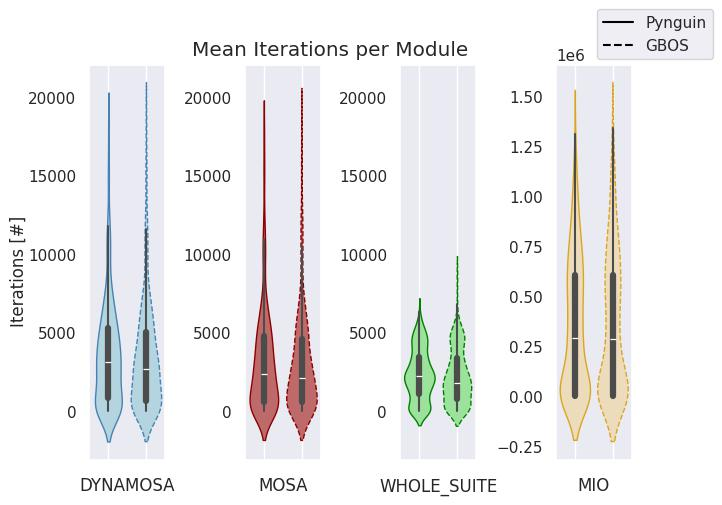
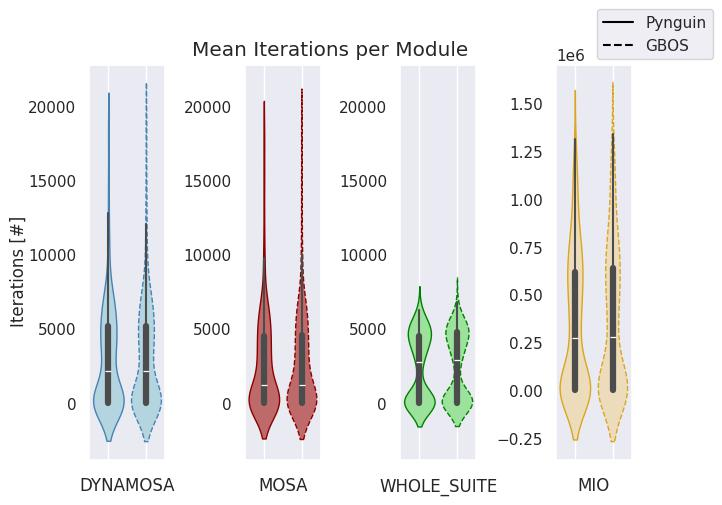
Final version?

diff --git a/pynguinGraphBasedObjectGen.tex b/pynguinGraphBasedObjectGen.tex
@@ -175,7 +175,7 @@ This drawback appears when a software is updated with dead code, or is not writt
 
 Since at least the past two decades, there has been a collective effort to shrink the necessity for handwritten software tests, with the development of tools and techniques related to evolutionary algorithms~\cite{DBLP:conf/sigsoft/FraserA11}, software static analysis~\cite{DBLP:conf/osdi/CadarDE08}, and (in a more current solution) large language models~\cite{DBLP:journals/corr/abs-2207-10397}.
 Usually, automatic test generation is portrayed as an optimization problem, that takes test cases or test suites as solutions to the task of maximizing the fitness coverage of a module under test and minimizing the amount of test cases/statements within a test suite.
-In this scenario, the greatest obstacles are finding a correct representation of a test case for the chosen programming language, and finding a suitable way of going through the domain's search space 
+In this scenario, the greatest obstacles are finding a correct representation of a test case for the chosen programming language, and finding a suitable way of going through the domain's search space .
 
 \newpage
 
@@ -646,13 +646,14 @@ For those modules that stay in the test set for this research question after a f
 For the experimental executions of Pynguin with the new GBOS extension, the data set of Python projects initially used as a benchmark for Pynguin's type tracing update, joined with a subset of Pynguin's EMSE submission test modules~\cite{DBLP:journals/corr/abs-2111-05003}, was taken as a base for the answer of both research questions.
 This initial testing set is formed by 1047 modules over 44 projects.
 
-In a first instance, are going to be filtered all modules that reach full branch coverage using the MIO algorithm without the GBOS extension, before 100 iterations or 600 seconds of execution time.
+In a first instance, are going to be filtered all modules that reach full branch coverage using the MIO algorithm without the GBOS extension, before 100 iterations or 600 seconds of execution search time.
 The filtering process left at this point 588 modules over the same 44 projects.
 For the answering of the second research question, a final filtering criteria was applied by comparing the  results of the runs to their Import Coverage, and checking the object-like ratio described in Equation~\ref{eq:olr}.
 Here, only those modules that have a final coverage that is different to their Import Coverage value or have a OLR greater than \(0.5\) are kept.
+In the run statistical data set there were some configurations of module and approach that did not reach more than 10 runs, and were also removed from the following analysis.
 
-Regarding the execution parameters of Pynguin, 8 main configurations are used to cover the 4 extended algorithms, and ether the usage or not usage of the GBOS extension itself.
-The configurations that use the WHOLE\_SUITE argument, also needed to set the parameter ``--use\_archive'' to true, as the extension uses the archive of each \classname{GenerationAlgorithm} to obtain the branch goals.
+Regarding the execution parameters of Pynguin, 8 main configurations are used to cover the 4 extended algorithms, and either the usage or not usage of the GBOS extension itself.
+The configurations that used the WHOLE\_SUITE argument, needed additionally to set the parameter ``--use\_archive'' to true, as the extension uses the archive of each \classname{GenerationAlgorithm} to obtain the branch goals.
 From the newly introduced parameters, only ``--no\_change\_iterations'' was tuned in a hand-made manner while having the first test runs as reference.
 In these (and similar to the results finally used for the analysis), the runs using the MIO algorithm reached mean algorithm iteration values close to an order of magnitude between \(10^5\) and \(10^6\), contrary to the rest of algorithms, which reached values closer to an order of magnitude of \(10^4\).
 Because of this, the mentioned parameter was left at the default value of \(1000\) for MIO, and lowered to \(300\) for the other algorithms.
@@ -705,14 +706,15 @@ The values for percentage difference between both approaches over the average va
 \end{figure}
 
 Figure~\ref{fig:times} describes through two plots the overall search time and the time needed by the extension per phase.
+For these plots, only were accounted those modules that had valid results in the 8 configurations at the same time.
 The violin plot on the left, shows the Search Time distribution of the runs, revealing that both Pynguin and the extension use the full budget of 600 seconds for any computation that is not related to the GBOS extension.
-The percentage change (e.g.~\(\frac{\text{GBOSValue} - \text{PynguinValue}}{\text{PynguinValue}}\times 100\)) for the average values of the distributions presented in this plot, are \(9.35\), \(6.92\), \(7.52\) and \(1.74\) respectively, from left to right.
+The percentage change (e.g.~\(\frac{\text{GBOSValue} - \text{PynguinValue}}{\text{PynguinValue}}\times 100\)) for the average values of the distributions presented in this plot, are \(-0.006\), \(-0.002\), \(0.005\) and \(-0.013\) respectively, from left to right.
 
 Regarding the times that are considered while doing any GBOS-related operation, the bar plot on the right shows a comparison of the average values per module, per algorithm, of the time spent in deciding if the current iteration generates a test template or not (Decision Time), time spent generating the test templates (Generation Time), and the Search Time as baseline.
 By looking at the sizes of the different sections of each algorithms' bars, it is safe to state that compared to the other options, MIO is the algorithm that is affected the most with the extra computational effort that the GBOS extension generates.
 This can be explained by the lightweight nature of the evolution steps implemented in Pynguin, which are reduced to only selecting a new test case if necessary and mutating it the maximum amount of times possible depending on the algorithm's parameters.
-Considering a comparison between the Search Time and the Decision Time, MIO obtains a percentage change of \(279.86\), while the other algorithms have values ranging between \(-87.48\) and \(-83.68\).
-With respect to the Generation Time, the comparison using percentage change of MIO gives a value of \(346.54\), while the other algorithms have values ranging between \(53.69\) and \(74.75\).
+Considering a comparison between the Search Time and the Decision Time, MIO obtains a percentage change of \(-31.773\), while the other algorithms have values ranging between \(-99.293\) and \(-98.995\).
+With respect to the Generation Time, the comparison using percentage change of MIO gives a value of \(-71.011\), while the other algorithms have values ranging between \(-99.839\) and \(-98.385\).
 
 The data reported in Table~\ref{tab:performance} shows the mean coverage of all tested modules per approach, the p-Values obtained through statistical Mann-Whitney U tests and Cohen's D effect size measures, in any pair of algorithm and runtime budget.
 Generally, all p-Values are greater than \(0.05\) with respect to the sets of obtained branch coverage values in each module, accepting the null hypothesis that assumes no effect or statistical difference between the distributions.
@@ -727,7 +729,7 @@ The presented violin plots imply that in general, both approaches to the test ge
 \end{figure}
 
 Nonetheless, it is noticeable that all values of Cohen's D effect size in Table~\ref{tab:performance} are negative, meaning that the best distributions of coverage values are found while using Pynguin without the GBOS extension.
-This strongly implies that in a general Python developing scenario the usage of the GBOS extension is not advised nor makes any considerable improvement in coverage results, as the mean effect size found in the last time step budget of the runs gets a value of \(-0.32\) over all algorithms, contrary to the value of \(0.21\) (in favour of EvoObj) obtained by Yun Lin et al.\ over all the algorithms used in their experimental phase for the maximum budget of 300 seconds. 
+This strongly implies that in a general Python developing scenario the usage of the GBOS extension is not advised nor makes any considerable improvement in coverage results, as the mean effect size found in the last time step budget of the runs gets a value of \(-0.04\) over all algorithms, contrary to the value of \(0.21\) (in favour of EvoObj) obtained by Yun Lin et al.\ over all the algorithms used in their experimental phase for the maximum budget of 300 seconds. 
 
 \begin{table}[h!]
   \centering
@@ -738,6 +740,32 @@ This strongly implies that in a general Python developing scenario the usage of 
   \input{Figures/Results/600-table.tex}
   \caption{Coverage Performance of Pynguin and GBOS with different time budgets.}\label{tab:performance}
 \end{table}
+
+A summary of the amount of modules used in every step of this research question is found in Table~\ref{tab:modrq1}, including the initial set before the filtering of those configurations that did not reach 10 runs, and after the intersection of modules between those available for both main approaches (default Pynguin and GBOS).
+
+\begin{table}[t]
+  \centering
+  \begin{tabular}{lcccc}\toprule
+    \multicolumn{1}{c}{\multirow{2}{*}{\# Modules}} & \multicolumn{4}{c}{Pynguin}                \\ \cmidrule(lr){2-5}
+    \multicolumn{1}{c}{}                            & DynaMOSA & MOSA    & WHOLE SUITE & MIO     \\ \midrule
+    Initial Set                                     & \(557\)  & \(553\) & \(555\)     & \(551\) \\
+    RQ1 Before Intersection                         & \(541\)  & \(540\) & \(544\)     & \(538\) \\
+    RQ1 After Intersection                          & \(187\)  & \(187\) & \(187\)     & \(187\) \\ 
+    \bottomrule
+  \end{tabular} 
+  \centering 
+  \begin{tabular}{lcccc}\toprule
+    \multicolumn{1}{c}{\multirow{2}{*}{\# Modules}} & \multicolumn{4}{c}{GBOS}                   \\ \cmidrule(lr){2-5}
+    \multicolumn{1}{c}{}                            & DynaMOSA & MOSA    & WHOLE SUITE & MIO     \\ \midrule
+    Initial Set                                     & \(529\)  & \(523\) & \(551\)     & \(289\) \\
+    RQ1 Before Intersection                         & \(389\)  & \(407\) & \(449\)     & \(193\) \\
+    RQ1 After Intersection                          & \(187\)  & \(187\) & \(187\)     & \(187\) \\ 
+    \bottomrule
+  \end{tabular}
+
+\caption{Amount of modules used while analysing each experimental configuration  for the answering of Research Question 1.}\label{tab:modrq1}
+\end{table}
+
 
 \begin{summary}{RQ1: Performance of GBOS over Pynguin}
   The presented GBOS extension for Pynguin \textbf{does not} outperform Pynguin itself while being evaluated over previously studied modules, similarly as EvoObj outperformed EvoSuite. 
@@ -750,14 +778,12 @@ This strongly implies that in a general Python developing scenario the usage of 
 With the results in Table~\ref{tab:performance}, it is shown once more how the extra computational effort needed while using the GBOS extension does not influence the obtained coverage results, at least as a rule of thumb.
 Another possible factor that explains the lack of improvement in the coverage results, is the absence of a need for complex object inputs by the modules under test in order to reach all target branches.
 This latter argument can be backed up partially with the results in Figure~\ref{fig:times}, which tell that even after the applied filtering, some modules still could reach a full branch coverage with the tests provided by an initial population of test chromosomes (e.g.~getting a Search Time of 0 [sec]).
-In addition, the data per time budget step mostly says that during the coverage evolution of Pynguin, there is persistent difference in performance while using the extension, which can be attributed to the random nature of the Search Based algorithms, or to the inter-iteration time difference in the Search Time variable when using the extension, in the case of the final time step of 600 seconds.
+In addition, the data per time budget step mostly says that during the coverage evolution of Pynguin using MIO, there is persistent difference in performance while using the extension, which can be attributed to the random nature of the Search Based algorithms, or to the inter-iteration time difference in the Search Time variable when using the extension, in the case of the final time step of 600 seconds.
 
 Figures~\ref{fig:worst} and~\ref{fig:best} show the branch coverage evolution along the 600 seconds budget for those modules that obtained the best and worst effect size values on each algorithm.
-In the first plot, during the whole search time budget it can be remarked how the GBOS extension has poorly evolves compared to Pynguin by itself, following the behaviour already found in Table~\ref{tab:performance}.
-Contrarily, rather than showing a better performance, the second graph implies that when the best effect sizes where found, both approaches had an almost equal evolution in branch coverage over time, except for a few segments, as it can be seen in the lines for DynaMOSA, MOSA and Whole Test Suite.
+In the first and second graphs together, during the whole search time budget it can be remarked how both curves have the same results, following the behaviour already found in Table~\ref{tab:performance}.
+This can be backed by the number of runs successfully executed, as all of these modules had a small difference between the both main approaches, ranging from \(2\) to \(7\).
 
-In terms of number of runs successfully executed, the nature behind the obtained effect size values could have been influenced by the difference in available runs, which ranged between \(2\) and \(28\).
-%The lower number of runs was mostly obtained when running Pynguin with the extension, existing cases in which this only obtained as few as a single possible run.
 \begin{figure}[pbth]
   \centering
   \includegraphics[width=0.9\textwidth]{Figures/Results/worstES.jpg}
@@ -776,7 +802,8 @@ In terms of number of runs successfully executed, the nature behind the obtained
 \section{Research Question 2}
 
 Figure~\ref{fig:scatter} shows a scatter plot of the different modules that presented an OLR measure greater than \(50\%\) and their Vargha-Delaney \(\hat{A}_{12}\) effect size with respect with the two distributions available for each approach and algorithm.
-In this figure, the general effect size average over all algorithms is given by the value \(0.50\). 
+For each graph, modules that had valid runs while using both Pynguin and the extension were taken into account, leaving an amount of modules between \(8\) and \(38\) after the OLR filtering.
+In this figure, the general effect size average over all algorithms is given by the value \(0.516\). 
 
 \begin{figure}[bth]
   \centering
@@ -787,13 +814,33 @@ In this figure, the general effect size average over all algorithms is given by 
 To answer this research question, two types of correlations metrics were calculated; Pearson's correlation coefficient, for linear dependency; and Spearman's rank correlation coefficient, for monotonic relationship between the variables.
 Both of these metrics are categorized depending on the magnitude and sign of their values, ranging from \(-1\) to \(1\) and stating a strong correlation for magnitudes closer to \(1\), a direct relation for positive values and an inverse relation for negative values.
 
-The values obtained for each metric follow a repetitive behaviour for each algorithm:
-\begin{itemize}
-  \item the Pearson's correlation coefficient values ranged between \(0.09\) and \(0.19\), meaning no linear correlation between the variables OLR and \(\hat{A}_{12}\) effect size
-  \item the Spearman's rank correlation coefficient values ranged between \(0.01\) and \(0.19\), meaning no monotonic correlation between the variables OLR and \(\hat{A}_{12}\) effect size
-\end{itemize}
+The values obtained for each metric follow a repetitive behaviour in each algorithm; the Pearson's correlation coefficient values ranged between \(0.13\) and \(0.63\), meaning mostly no linear correlation between the variables OLR and \(\hat{A}_{12}\) effect size; the Spearman's rank correlation coefficient values ranged between \(0.08\) and \(0.49\), meaning no monotonic correlation between the variables OLR and \(\hat{A}_{12}\) effect size; implying, that there is no correlation (or a weak correlation) between the aforementioned variables, when using the GBOS extension in a general Python module scenario.
+One could infer a possible linear correlation when applying MIO, as it got a Pearson correlation greater than 0.5, but considering the gathered data this far from the previous research question, this values is not conclusive.
 
-implying, that there is no correlation between the aforementioned variables, when using the GBOS extension in a general Python module scenario.
+A summary of the amount of modules used in every step of this research question is found in Table~\ref{tab:modrq2}, including once again the initial set before the filtering of those configurations that did not reach 10 runs, the preliminary filter of the modules that reached a coverage result greater than the import coverage, and the posterior intersection of modules for every configuration and filtering of modules that reached an OLR greater than \(50\%\).
+
+\begin{table}[t]
+  \centering
+  \begin{tabular}{lcccc}\toprule
+    \multicolumn{1}{c}{\multirow{2}{*}{\# Modules}} & \multicolumn{4}{c}{Pynguin}                \\ \cmidrule(lr){2-5}
+    \multicolumn{1}{c}{}                            & DynaMOSA & MOSA    & WHOLE SUITE & MIO     \\ \midrule
+    Initial Set                                     & \(557\)  & \(553\) & \(555\)     & \(551\) \\
+    RQ2 Before Intersection                         & \(492\)  & \(490\) & \(494\)     & \(487\) \\
+    RQ2 After Intersection                          & \(32\)   & \(31\)  & \(38\)      & \(8\)   \\ 
+    \bottomrule
+  \end{tabular} 
+  \centering 
+  \begin{tabular}{lcccc}\toprule
+    \multicolumn{1}{c}{\multirow{2}{*}{\# Modules}} & \multicolumn{4}{c}{GBOS}                   \\ \cmidrule(lr){2-5}
+    \multicolumn{1}{c}{}                            & DynaMOSA & MOSA    & WHOLE SUITE & MIO     \\ \midrule
+    Initial Set                                     & \(529\)  & \(523\) & \(551\)     & \(289\) \\
+    RQ2 Before Intersection                         & \(343\)  & \(360\) & \(401\)     & \(145\) \\
+    RQ2 After Intersection                          & \(32\)   & \(31\)  & \(38\)      & \(8\)   \\ 
+    \bottomrule
+  \end{tabular}
+
+\caption{Amount of modules used while analysing each experimental configuration for the answering of Research Question 2.}\label{tab:modrq2}
+\end{table}
 
 \begin{summary}{RQ2: Correlation of coverage improvement and OLR}
   The usage of the presented GBOS extension \textbf{does not} induce a correlated improvement in branch coverage results, when applied to Python modules that have a higher OLR metric.
@@ -814,10 +861,11 @@ implying, that there is no correlation between the aforementioned variables, whe
 \end{figure}
 
 The obtained answer for the second research question develops the same ideas as the discussion of the first research question, stating that the majority of Python modules in the testing set either, do not include type information or the necessity for complex object inputs.
-Following the same procedure as before, Figures~\ref{fig:worsta12}~and~\ref{fig:besta12} show the evolution in coverage results over the time budget, for those modules that obtained the worst \(\hat{A}_{12}\) effect size measure in the second research question.
-Once more, and supported by all the data gathered so far, the results in coverage for this effect size measure prove that both approaches of Pynguin shows in each chosen algorithm, either no statistical difference or a gap so big in the amount of runs between distributions, that the results in effect size bring no conclusive information.
-Examples of this are the plots for DYNAMOSA and MOSA in Figure~\ref{fig:worsta12}, which are instances were the \(\hat{A}_{12}\) is lower than \(0.5\) (meaning better results when using Pynguin without the extension) but the mean final coverage show two scenarios, one where the GBOS extension has a better final result and one where it does not.
-Finally, this could have been influenced once more by the fact that in most of the extreme cases of effect size results (best and worst), Pynguin without GBOS could finish most of its 30 proposed iterations and with the extension it only could finish one or two. 
+Following the same procedure as before, Figures~\ref{fig:worsta12}~and~\ref{fig:besta12} show the evolution in coverage results over the time budget, for those modules that obtained the worst  and best \(\hat{A}_{12}\) effect size measure in the second research question.
+Once more, the results in coverage for this effect size measure prove that both approaches of Pynguin show in each chosen algorithm, either no statistical difference or a gap so big in the amount of runs between distributions, that the results in effect size bring no conclusive information.
+
+One example of this, is the case of the fourth plot of Figure~\ref{fig:besta12}, showing the evolution in coverage for the modules that obtained the best \(\hat{A}_{12}\) effect size in the configurations that used MIO.\@
+In this instance both approaches had a difference in runs of 19, with default Pynguin having the most of them (30) and making the effect size value ambiguous. 
 
 \newpage
 
@@ -842,9 +890,27 @@ This variable is a collection of three boolean values, which start with False as
   \item a test template is added into the algorithm's population.
 \end{itemize}
 With this information, it was possible to understand that in the great majority of aforementioned modules, none of these three values was set to True, fact that further explains the coverage results and base the answers given to the proposed research questions.
+An example of this behaviour is the module ``flutils.packages'', which obtained one of the best \(\hat{A}_{12}\) effect size values, but still did not generate any test template, meaning that the coverage result distribution improvement is given merely by randomness.
+Further examination of this module, indicates that custom classes are defined in it, but the majority of its functions do not use them as parameters.
+Instead, they use Python primitives or unions of primitives, except for the function \callable[ver\_obj]{\_each\_version\_part} which uses a class \classname{StrictVersion} part of versions of Python before 3.12, and can be fully constructed with a single string, making it not count explicitly as a complex object.
 
-The only different case of value for the output variable, was the module ``pkg\_resources.\_vendor.packaging.tags'', whose test template generation process managed to create a valid PDG, but not a valid test template.
-Considering this case, questions arise about the element of the GBOS extension that made the second step fail, which is most likely due to a lack of information in terms of Data Dependency within the built inter procedural PDG.\@
+\begin{minted}{python}
+
+# Module flutils.packages
+
+def _each_version_part(
+        ver_obj: StrictVersion,
+) -> Generator[_VersionPart, None, None]:
+    version: Tuple[int, int, int] = ver_obj.version
+    prerelease: Union[Tuple[str, int], None] = ver_obj.prerelease
+    prerelease_built = False
+# ...
+\end{minted}
+
+However, an exception to the rule was the module ``humanfriendly.compat'' (encountering one of the best Cohen's D effect size in the first research question), whose test template generation process managed to create a valid PDG, but not a valid test template.
+After doing a detail inspection of the module in question, it was clear that the main reason for it to not continue the test template creation process was, that it had an OLR value of \(0\%\), with only functions that either have no parameters or a single parameter with no type information.
+
+Considering this cases, questions arise about the possible sections of the GBOS extension that might make the second step fail, which is most likely due to a lack of information in terms of Data Dependency within the built inter procedural PDG.\@
 One example of this information loss can be found in the presented implementation of the Frame execution when generating the DDG, specifically when the MUT has ``try-except'' or ``with'' clauses inside any of its basic blocks.
 The problem with these logic rules comes, because their implementation is given (on the 3.10 Python version) with Python instruction that conditionalize the stack frame state on the presence of an Exception, e.g.~\textbf{SETUP\_WITH} and \textbf{SETUP\_FINALLY}.
 An example of this behaviour is the snippet
@@ -880,19 +946,14 @@ Moreover, the way MIO is implemented into Pynguin makes the execution of it prio
 
 % TODO - change structure by approach (check Gordon's email)
 
-Before commenting on the different tools, techniques and methods that have a place in the current state of the art of automatic test generation for programming languages, it is worth describing the types of testing and their objectives. The following types were investigated by one or more of the tools mentioned in this section. 
-
-\begin{enumerate}
-  \item Unit testing: a type of functional testing that tries to test individual or atomic units of a software project.
-  \item Regression testing: a type of system testing, which tells if new functionalities of a system produce defects into the latest build of it.
-  \item Fuzz testing: a kind of security testing that consists of providing random, unexpected or large amounts of data to a system, to review its way of behaving to it.
-\end{enumerate}
+Before commenting on the different tools and techniques that have a place in the current state of the art of automatic test generation for programming languages, it is worth describing the types of testing and their objectives. Unit testing is a type of functional testing that tries to test individual or atomic units of a software project.
+Regression testing, on another side, is a type of system testing that tells if new functionalities of a system produce defects into the latest build of it.
 
 The various approaches that are part of the current state-of-the-art for Automatic Test Generation can be categorized in two main types depending on what are they based on: Large Language Models (LLMs) and Search-Based Algorithms or Static Analysis (SB).
 
 \section{LLM-Based}
 
-\subsection{CodaMOSA}
+\subsection*{CodaMOSA}
 
 One of the many tools presented in papers that have cited Pynguin in their research is CodaMOSA~\cite{DBLP:conf/icse/LemieuxILS23}, software created by Microsoft developers, has Pynguin as a base and extends its functionality calling OpenAI's Codex\footnote{https://openai.com/blog/openai-codex} API to get template suggestions for test cases that are in a coverage stall, similar to what this thesis works over.
 For the development, the authors used only MOSA as the search algorithm because is the only one that allowed the usage of both line and branch coverage as fitness functions, on the version of Pynguin at the time (0.19.0).
@@ -904,27 +965,7 @@ For the benchmark, modules from 35 projects from the Pynguin paper were filtered
 The baselines for the experimental phase were Pynguin with MOSA and CodexOnly, which while being compared to CodaMOSA were statistically compared using the Mann-Whitney U-Test.
 The results showed that CodaMOSA performs significantly better, reaching a higher coverage on 173 more modules compared to MOSA and 279 more modules compared to CodexOnly.
 
-\subsection{CodeT}
-
-Following the examples of software artefacts presented by Microsoft developers, in 2022 is published a paper regarding CodeT~\cite{DBLP:journals/corr/abs-2207-10397}, a LLM based code generation tool.
-The main purpose of CodeT is the solution of a programming problem by generating a code snippet, based on a context containing natural language.
-Regardless of this not following the same pattern as previous software examples, test generation using the same LLM is part of the whole process, although all of these just have the form of a single assertion, together with a set of inputs and the desired output.
-
-\begin{figure}[tb]
-  \centering 
-  \includegraphics[width=.99\textwidth]{Figures/codet.png}
-  \caption{CodeT structure}\label{fig:codet}
-\end{figure}
-
-A general structure of CodeT is shown in Figure~\ref{fig:codet}, which also depicts the functioning of it by first, prompting the generation of a set of tests (right on the figure) based on the natural language context of the programming problem, that are at the same time the context for the prompting of a set of code snippets (left on the figure).
-After the execution of the LLM model is finished and all the outputs are gathered, a Dual execution agreement criterion, based on the RANSAC~\cite{DBLP:journals/cacm/FischlerB81} algorithm, is used to select the best code solution.
-The selection in this criterion, is done by forming consensus sets of both code solutions and test cases, by selection a valid pair \((x_\text{code}, y_\text{test})\) as a hypothetical inlier, and grouping it with all tests that are also passed by \(x_\text{code}\) in set \(S_y\) and all other code snippets that pass the same tests as \(x_\text{code}\) in set \(S_x\).
-Finally, when all consensus sets \(S_x\) and \(S_y\) are formed from the different valid pairs \((x_\text{code}, y_\text{test})\), those with the highest cardinality \(f(S) = |S_x||S_y|\) have the best score for selection.
-
-As stated before, CodeT centres around code generation rather than test case generations, which makes the research of this paper focus mainly on metrics such as pass1 or pass100 (correct rate of single solutions, or at least one for every hundred).
-Nonetheless, to check the quality of the generated solutions, the authors also covered in their result analysis the code and branch coverage of the snippets generated from the different LLM models.
-Almost all the models obtained an overall average coverage of \(95\%\).
-\subsection{MutAP}
+\subsection*{MutAP}
 
 Mutation testing is one software testing technique, that aims to measure the ability of a test to reveal bugs.
 Taking this approach in mind, Dakhel et al.\@ presented in 2023 MutAP~\cite{DBLP:journals/corr/abs-2308-16557}, another LLM based code generation tool that also introduces prompt augmentation for killing mutants in an iterative process before the actual synthesis of test cases.
@@ -949,7 +990,7 @@ The overall results mainly cover the mutation score obtained by all the possible
 
 \section{SB-Based}
 
-\subsection{EvoSuite}
+\subsection*{EvoSuite}
 
 With respect to Unit Test Generation, EvoSuite~\cite{DBLP:conf/qsic/FraserA11} was (and still is) a state-of-the-art test generation tool for Java, pioneer of the usage of a genetic algorithm, so the branch coverage can be optimized as a whole.
 The internal representation of EvoSuite for a test suite is a set of chromosomes \(T\) as a sequence of statements \(t_i\) of length \(l_i\) and either type primitive statement, constructor statement, field statement, or method statement.
@@ -962,23 +1003,8 @@ Another limitation to the suites \(T\), are \(N\) as the maximum number of chrom
 For the experiment phase, a single branch approach was created by the authors, in which every branch \(b_t\) is seen as a single coverage goal to be met by the test cases.
 Then, the comparison between the single branch method and the whole suite optimization is done with the generation of test cases for five open source projects, accumulating a total of 1308 classes from which 727 were public.
 After the execution of test cases was complete and statistical tests were applied, it could be stated that the results show EvoSuite has a better branch coverage and creates smaller tests suites than the single objective method.
-\subsection{NxtUnit}
 
-\begin{figure}[bt]
-  \centering
-  \includegraphics[width=.99\textwidth]{Figures/nxtunit2.png}
-  \caption{NxtUnit structure}\label{fig:nxt}
-\end{figure}
-
-Having EvoSuite, Randoop and Pynguin as precedents, in 2023 developers from ByteDance (technology Chinese company) presented NxtUnit~\cite{DBLP:conf/ease/WangMCGSP23}, an automatic randomized test generation tool for the programming language Go.
-Similar to other state-of-the-art tools, the structure of NxtUnit (see Figure~\ref{fig:nxt}) is composed by an initial source code as input, that is translated into Static Single Assignment form as a way to get a graph with call dependencies between functions.
-After this preprocessing, NxtUnit proceeds to synthesize from the call graph a code template that is filled with appropriate randomly generated parameters and ran during the tool's execution.
-All the information for the template synthesis and posterior parameter changes are done thanks to the information provided by Go Reflect\footnote{https://pkg.go.dev/reflect}.
-During the code running phase, NxtUnit focuses in three main tasks: mutation of the parameter inputs at runtime, assertion generation for future regression testing, and test case selection based on code coverage.
-Once the tool comes to a halt, the best test cases are exported into a test suite.
-In the experiment proposed by the authors, NxtUnit was executed on 500 private ByteDance repositories and 13 out of the 100 highly-rated public repositories of Go, both sets that already contain tests.
-The main objective of this setup, was to review the code coverage increase while adding NxtUnit tests to the already existing ones, and it produced an average increase of \(5.51\%\) for the public repositories and \(17.26\%\) for the private ones.
-\subsection{JSEFT}
+\subsection*{JSEFT}
 
 As an example for automatic test generation in dynamic languages others than Python, JSEFT is presented in 2015 by Mirshokraie et al.~\cite{DBLP:conf/icst/Mirshokraie0P15} as a tool for generating not only unit tests, but also event-driven tests for web applications written in JavaScript.
 The general structure of JSEFT is presented in Figure~\ref{fig:jseft} and is composed of three main steps that process the data given by the HTML Document Object Model (DOM):
@@ -1004,10 +1030,10 @@ For the specified metrics, the tool got a \(68.4\%\) of line coverage and a \(10
 
 Through the conducted study, a Python implementation for Pynguin of the Graph Based Object Synthesis heuristic was presented for the generation of the previously defined complex object inputs.
 The expectation from the experiments aimed for an improvement in branch coverage results when running the approach into a set of Python modules, that served as generalization of the common publicly available Python module.
-Although, this prediction had the heuristic's original result on its Java implementation of a Cohen's D effect size improvement of \(0.21\) as baseline, the observed effect size in the general results presented a different outcome, with a negative value of \(-0.32\).
+Although, this prediction had the heuristic's original result on its Java implementation of a Cohen's D effect size improvement of \(0.21\) as baseline, the observed effect size in the general results presented a different outcome, with a negative value of \(-0.04\).
 
 At the same time, the introduced metric ``OLR'' helped as an intermediary measure for the presence of a need for complex object inputs within Python modules. 
-Nonetheless, not even by focusing the efforts of the experimental setup on those Python modules that had a greater OLR, any improvement was found at all, getting an \(\hat{A}_{12}\) Vargha-Delaney effect size of \(0.50\).
+Nonetheless, not even by focusing the efforts of the experimental setup on those Python modules that had a greater OLR, any improvement was found at all, getting an average \(\hat{A}_{12}\) Vargha-Delaney effect size of \(0.516\).
 This behaviour was analysed further with the idea of a possible correlation between the OLR and the improvement when using the GBOS approach, which was completely refuted by the computation of both Pearson's and Spearman's correlation coefficient.
 
 While the presented approach did not improve Pynguin's results on the set of Python modules beforehand, this might as well describe the current state of the usage of Python as a programming language, implying that even though there are many resources for a correct typing within the dynamically typed language, most developers still do not make full usage of them.

diff --git a/Figures/Results/450-table.tex b/Figures/Results/450-table.tex
@@ -1,9 +1,9 @@
 \begin{tabular}{lcccc}\toprule 
 \multirow{2}{*}{Coverage Performance} & \multicolumn{4}{c}{Budget - 450[s] } \\ \cmidrule(lr){2-5}  
                                       & DYNAMOSA&MOSA&WHOLESUITE&MIO                         \\ \midrule 
-GBOS                                  & \(0.6\)&\(0.6\)&\(0.57\)&\(0.59\)                       \\ 
-Pynguin                               & \(0.61\)&\(0.61\)&\(0.57\)&\(0.61\)                       \\ 
-p Value                               & \(0.75\)&\(0.76\)&\(0.71\)&\(0.76\)                     \\ 
-Cohen's D Effect Size                 & \(-0.25\)&\(-0.2\)&\(-0.26\)&\(-0.51\)                       \\ 
+GBOS                                  & \(0.62\)&\(0.62\)&\(0.62\)&\(0.61\)                       \\ 
+Pynguin                               & \(0.62\)&\(0.62\)&\(0.62\)&\(0.62\)                       \\ 
+p Value                               & \(1.0\)&\(1.0\)&\(0.99\)&\(0.93\)                     \\ 
+Cohen's D Effect Size                 & \(0.01\)&\(0.0\)&\(-0.01\)&\(-0.19\)                       \\ 
 \bottomrule 
 \end{tabular}

diff --git a/Figures/Results/600-table.tex b/Figures/Results/600-table.tex
@@ -1,9 +1,9 @@
 \begin{tabular}{lcccc}\toprule 
 \multirow{2}{*}{Coverage Performance} & \multicolumn{4}{c}{Budget - 600[s] } \\ \cmidrule(lr){2-5}  
                                       & DYNAMOSA&MOSA&WHOLESUITE&MIO                         \\ \midrule 
-GBOS                                  & \(0.6\)&\(0.6\)&\(0.57\)&\(0.59\)                       \\ 
-Pynguin                               & \(0.61\)&\(0.61\)&\(0.58\)&\(0.62\)                       \\ 
-p Value                               & \(0.74\)&\(0.75\)&\(0.7\)&\(0.76\)                     \\ 
-Cohen's D Effect Size                 & \(-0.26\)&\(-0.22\)&\(-0.27\)&\(-0.52\)                       \\ 
+GBOS                                  & \(0.62\)&\(0.62\)&\(0.62\)&\(0.62\)                       \\ 
+Pynguin                               & \(0.62\)&\(0.62\)&\(0.62\)&\(0.62\)                       \\ 
+p Value                               & \(1.0\)&\(1.0\)&\(0.99\)&\(0.94\)                     \\ 
+Cohen's D Effect Size                 & \(0.01\)&\(0.0\)&\(-0.0\)&\(-0.17\)                       \\ 
 \bottomrule 
 \end{tabular}

diff --git a/Figures/Results/300-table.tex b/Figures/Results/300-table.tex
@@ -1,9 +1,9 @@
 \begin{tabular}{lcccc}\toprule 
 \multirow{2}{*}{Coverage Performance} & \multicolumn{4}{c}{Budget - 300[s] } \\ \cmidrule(lr){2-5}  
                                       & DYNAMOSA&MOSA&WHOLESUITE&MIO                         \\ \midrule 
-GBOS                                  & \(0.6\)&\(0.59\)&\(0.56\)&\(0.59\)                       \\ 
-Pynguin                               & \(0.6\)&\(0.6\)&\(0.57\)&\(0.61\)                       \\ 
-p Value                               & \(0.75\)&\(0.77\)&\(0.73\)&\(0.76\)                     \\ 
-Cohen's D Effect Size                 & \(-0.22\)&\(-0.16\)&\(-0.2\)&\(-0.5\)                       \\ 
+GBOS                                  & \(0.62\)&\(0.62\)&\(0.62\)&\(0.61\)                       \\ 
+Pynguin                               & \(0.62\)&\(0.62\)&\(0.62\)&\(0.62\)                       \\ 
+p Value                               & \(1.0\)&\(1.0\)&\(0.98\)&\(0.93\)                     \\ 
+Cohen's D Effect Size                 & \(0.01\)&\(0.01\)&\(-0.01\)&\(-0.2\)                       \\ 
 \bottomrule 
 \end{tabular}
